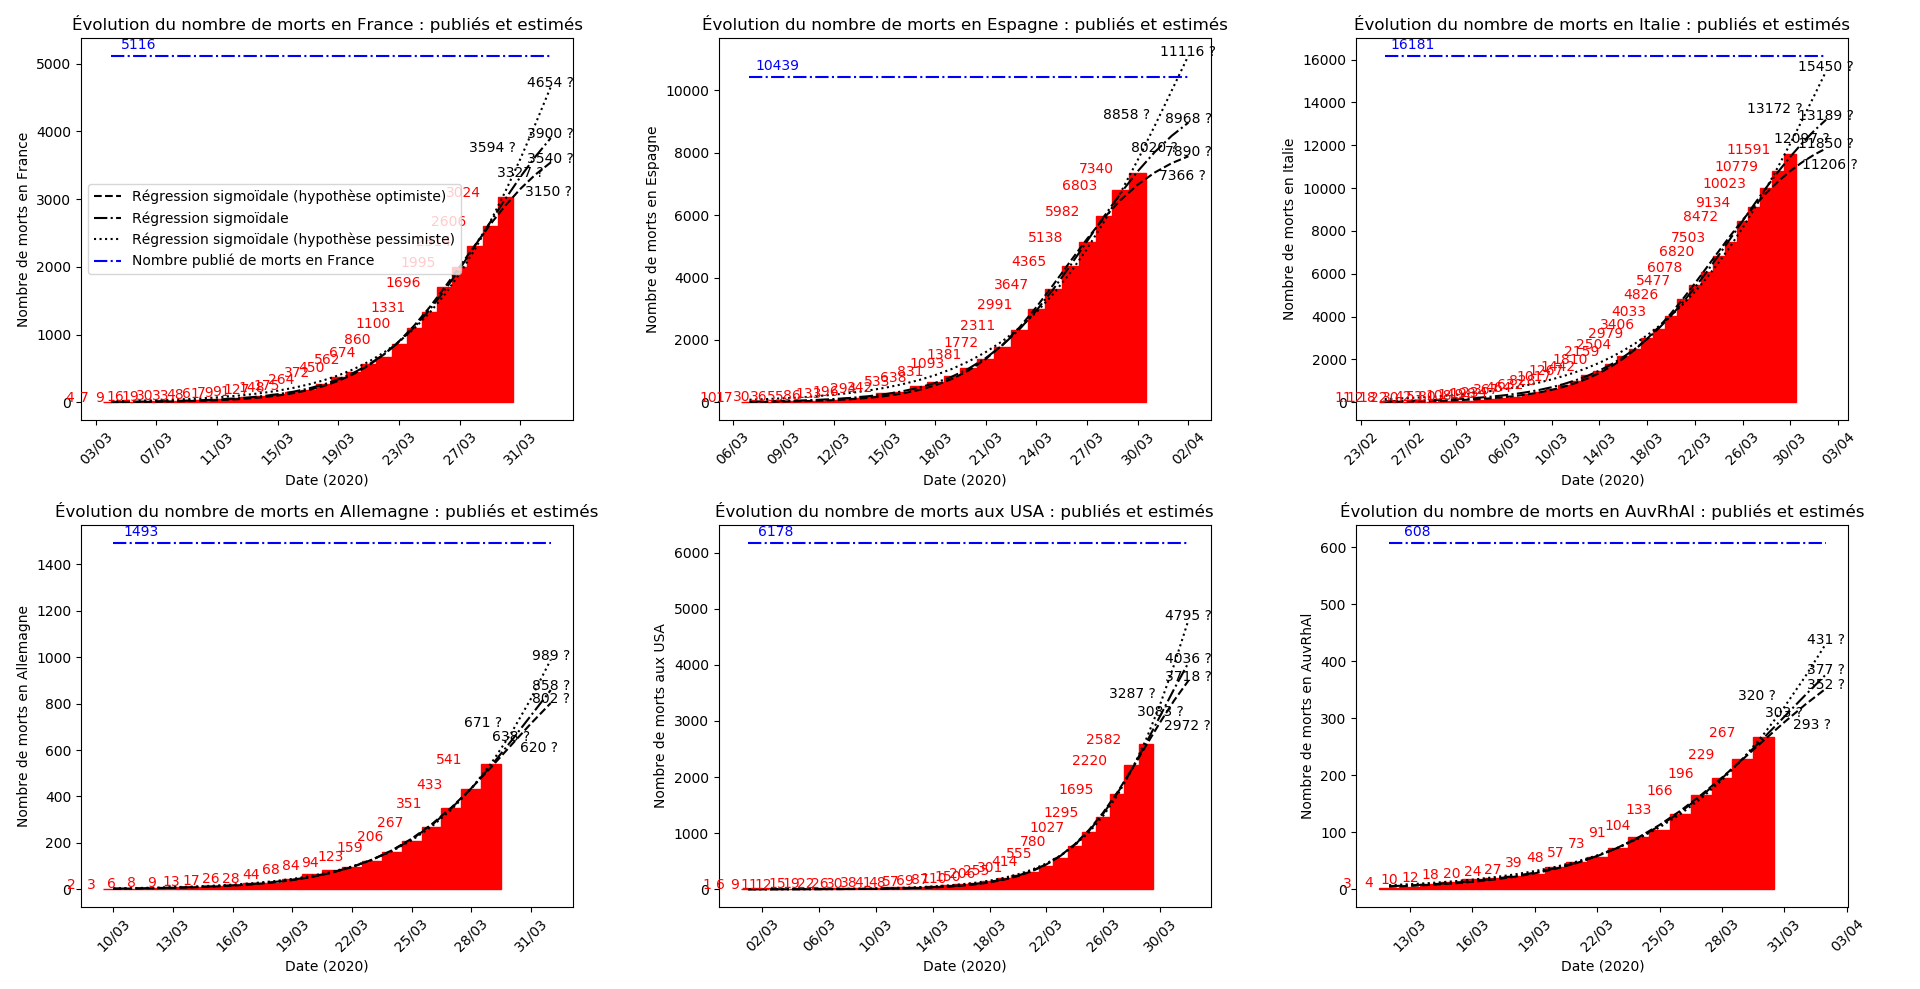
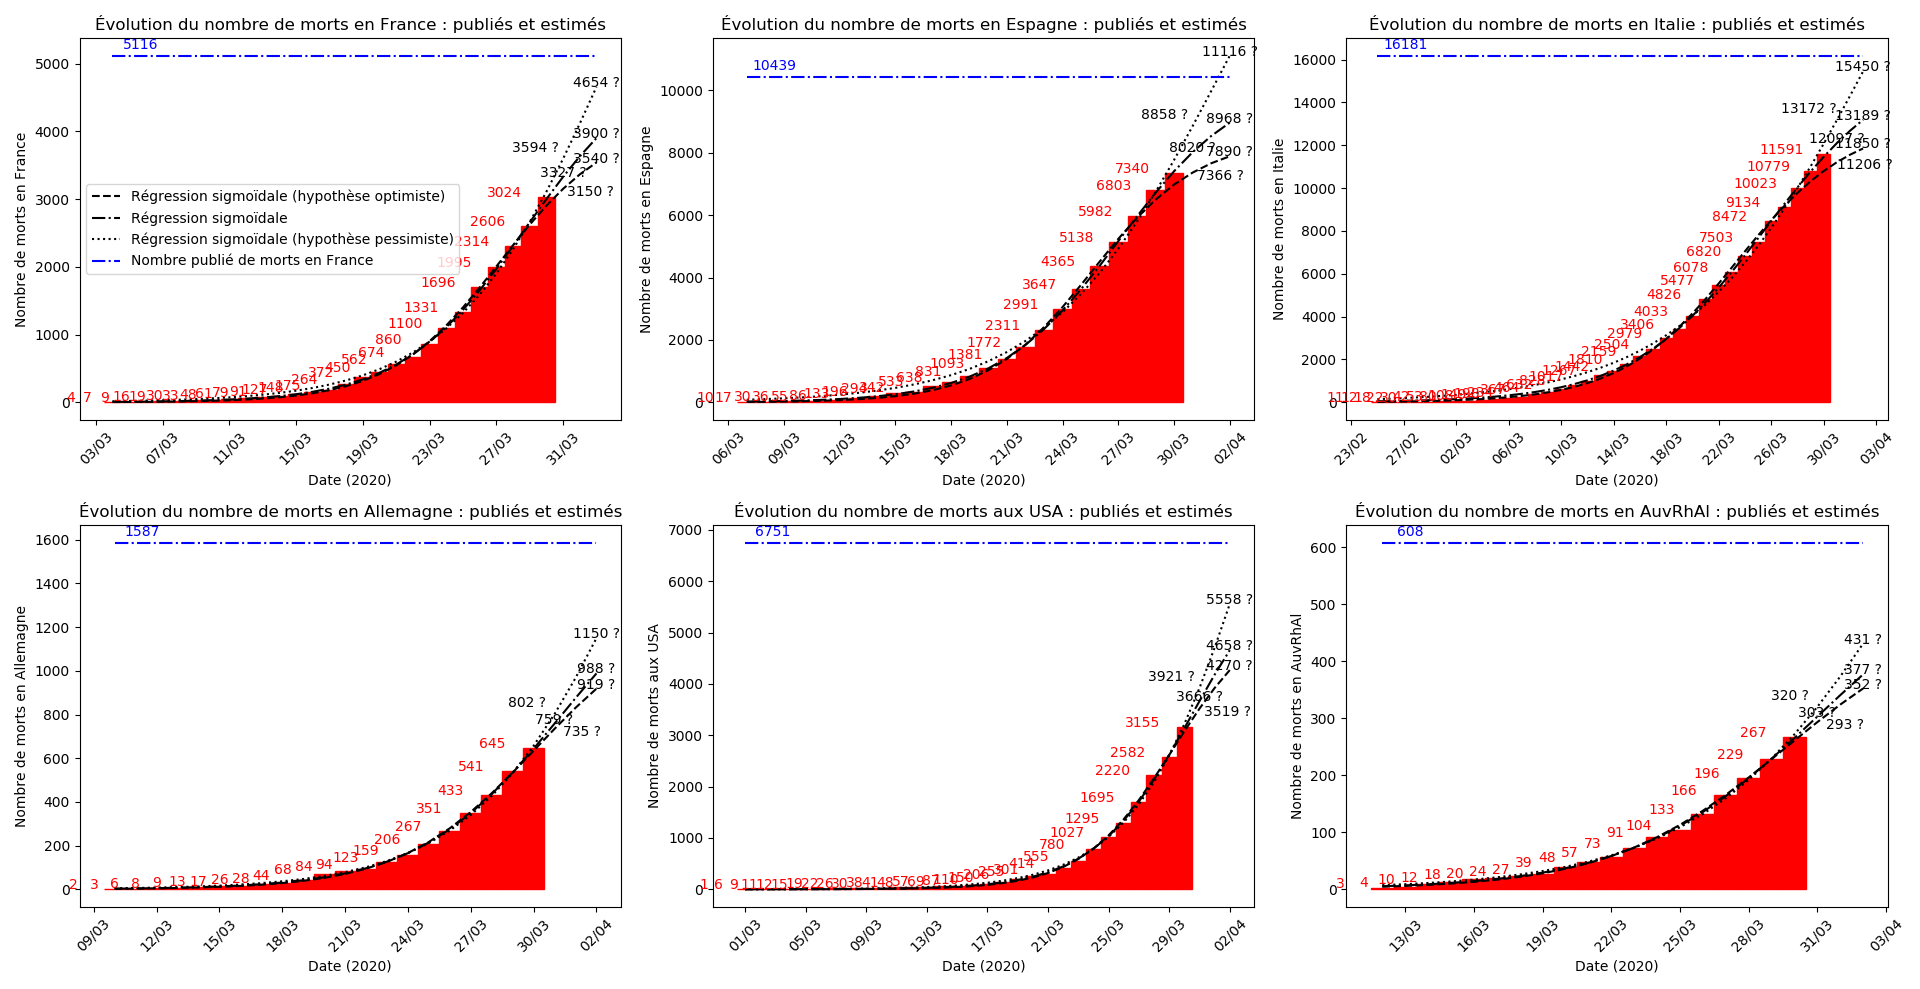
CoViD-19

diff --git a/_posts/2020-03-28-covid19.md b/_posts/2020-03-28-covid19.md
@@ -549,13 +549,13 @@ Source des données :
 
 # Situation au 30 mars
 
-Les données de l'Allemagne étaient parcellaires et la situation outre-Rhin ne s'améliore pas tant que ça. Les données du jour n'ont pas encore été totalement publiées, je ferai une mise-à-jour demain.
+Les données de l'Allemagne étaient parcellaires et la situation outre-Rhin ne s'améliore pas tant que ça.
 
 L'Espagne au contraire voit sa situation s'améliorer de façon pérenne et peut espérer passer le pic d'épidémie aux alentours du 3 avril.
 
 Pour l'Italie, le plus dur pourrait être derrière : le pic pour demain ? Autant dire qu'on est au pic, la précision de l'algorithme étant très faible en l'occurrence.
 
-Aux USA, les données du jour ne seront connues que demain dans la journée. Je ferai là aussi une mise-à-jour.
+Aux USA, un petit mieux peut-être ?
 
 Enfin, pour la France, l'algorithme donne un nombre de morts en fin d'épidémie stable aux alentours de 5000 depuis 5 jours. C'est plus que bon signe ! On reste chez soi, et on se prépare à l'arrivée du pic vers le 5 avril. Même si... la situation en Auvergne-Rhône-Alpes continue à s'emballer et invite à être prudent sur l'évolution de la maladie en France.
 
